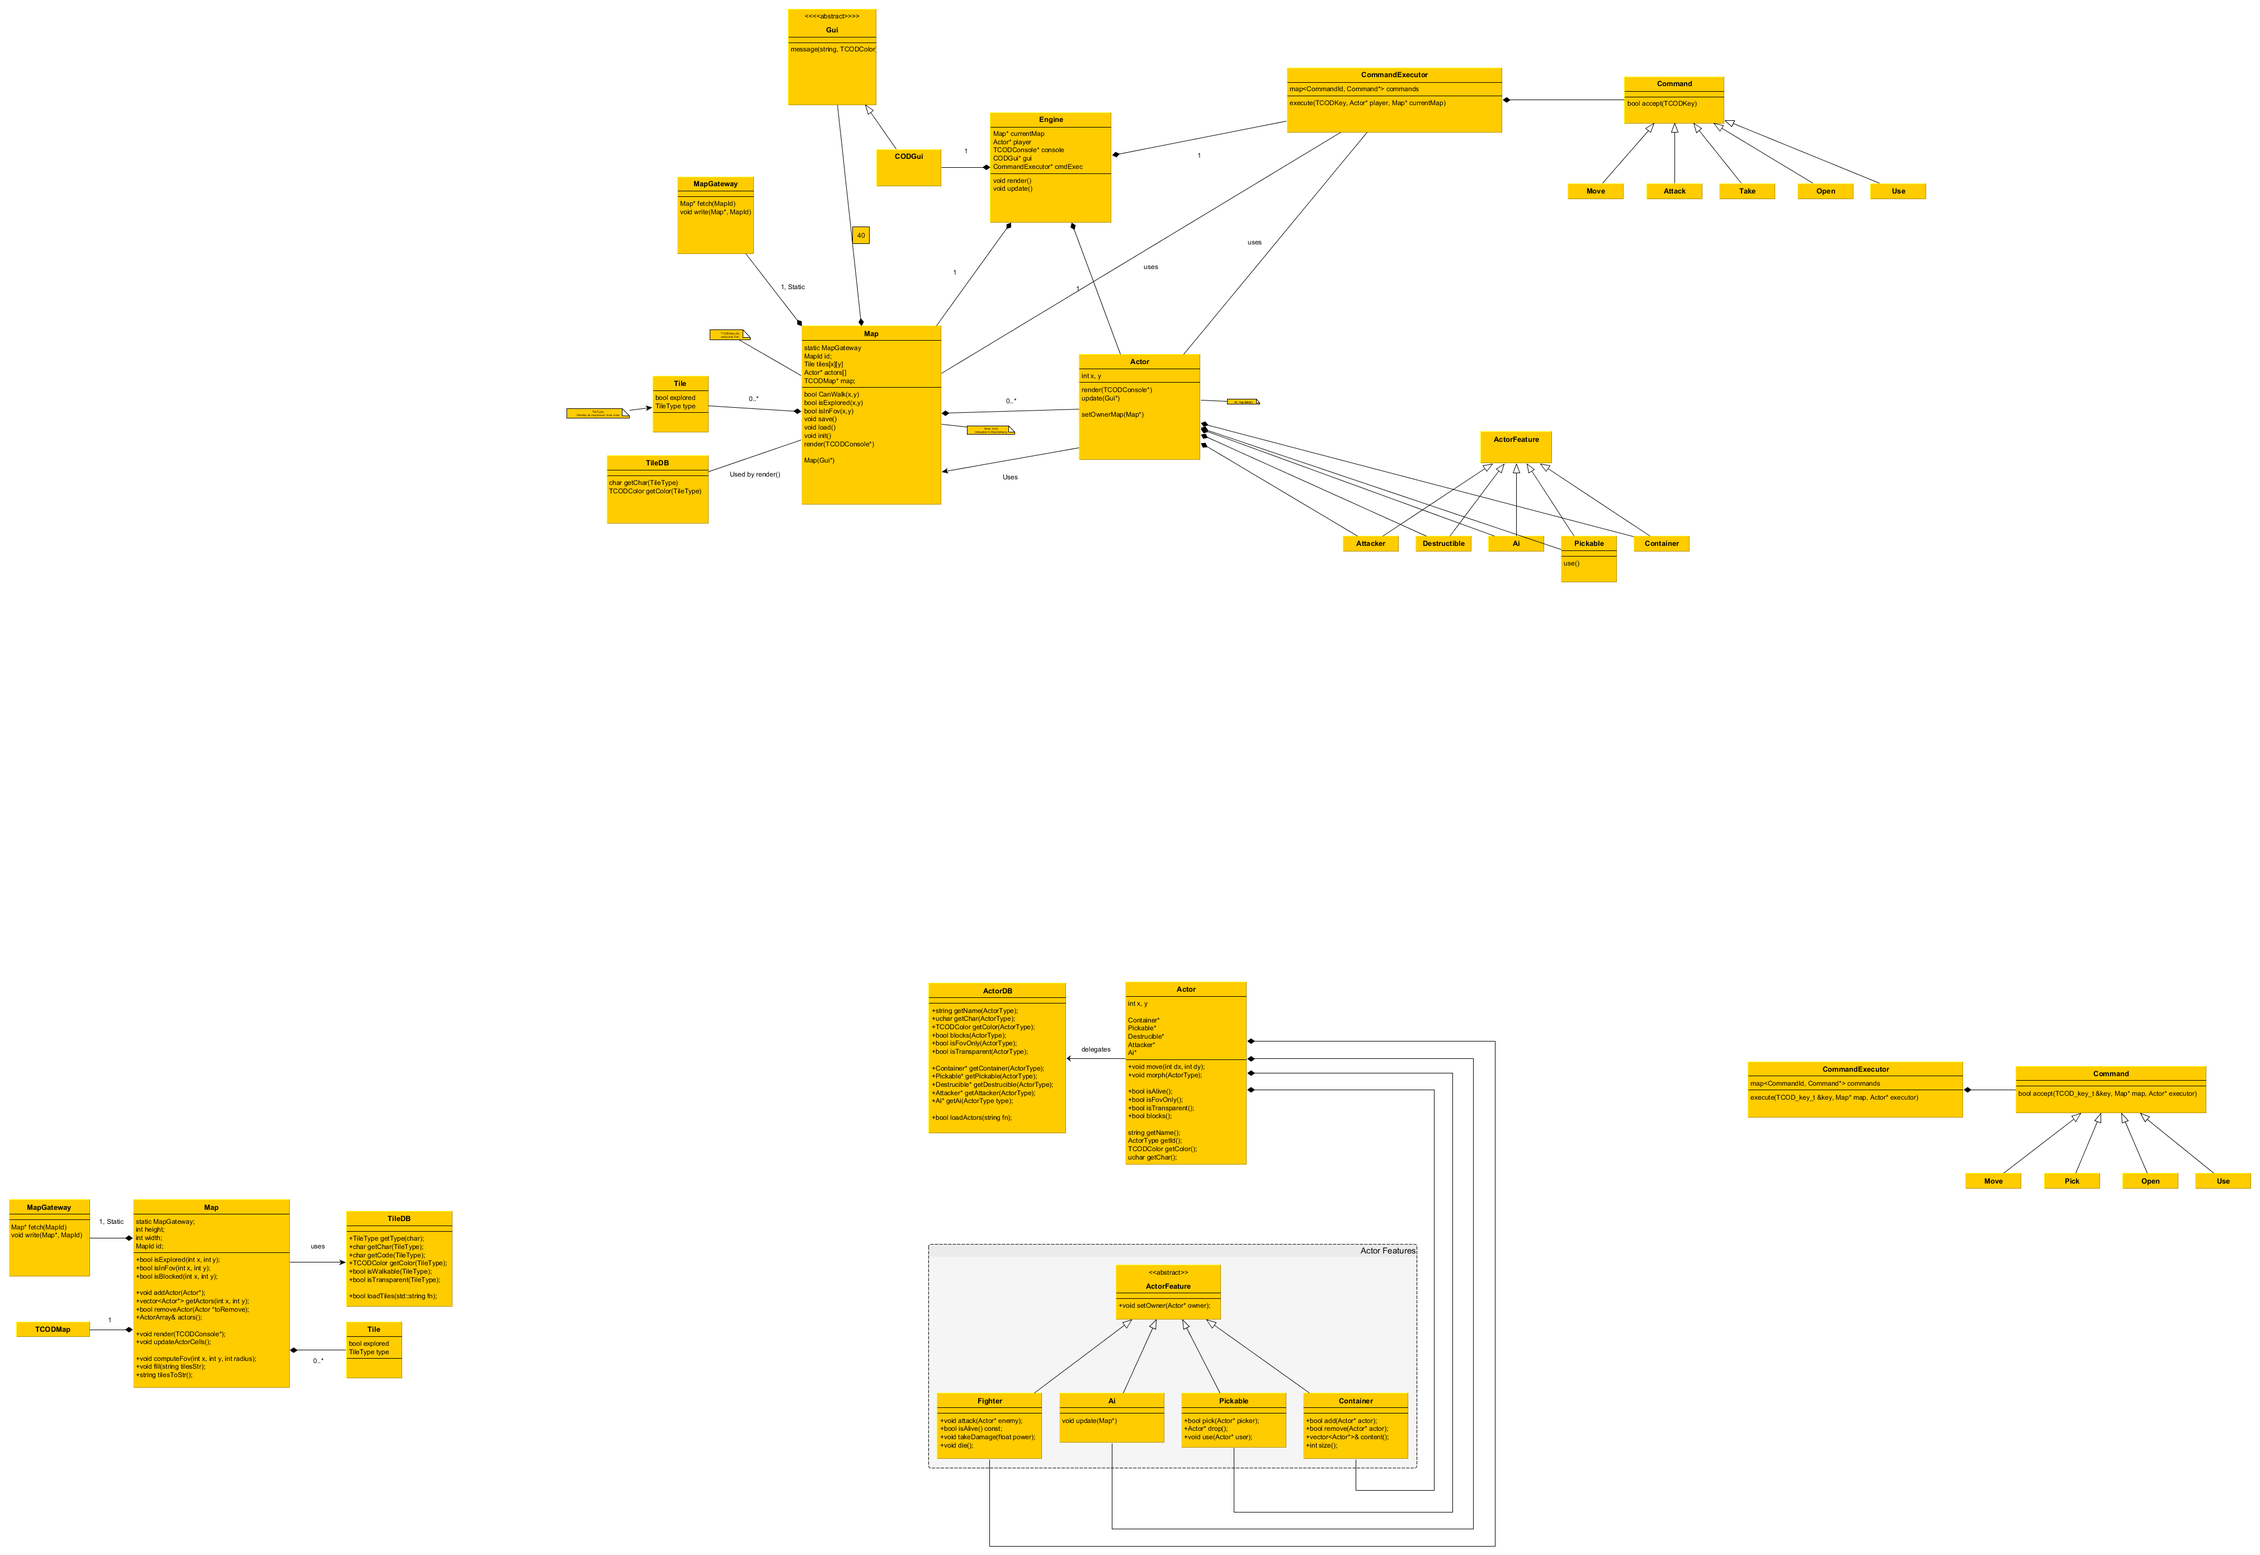
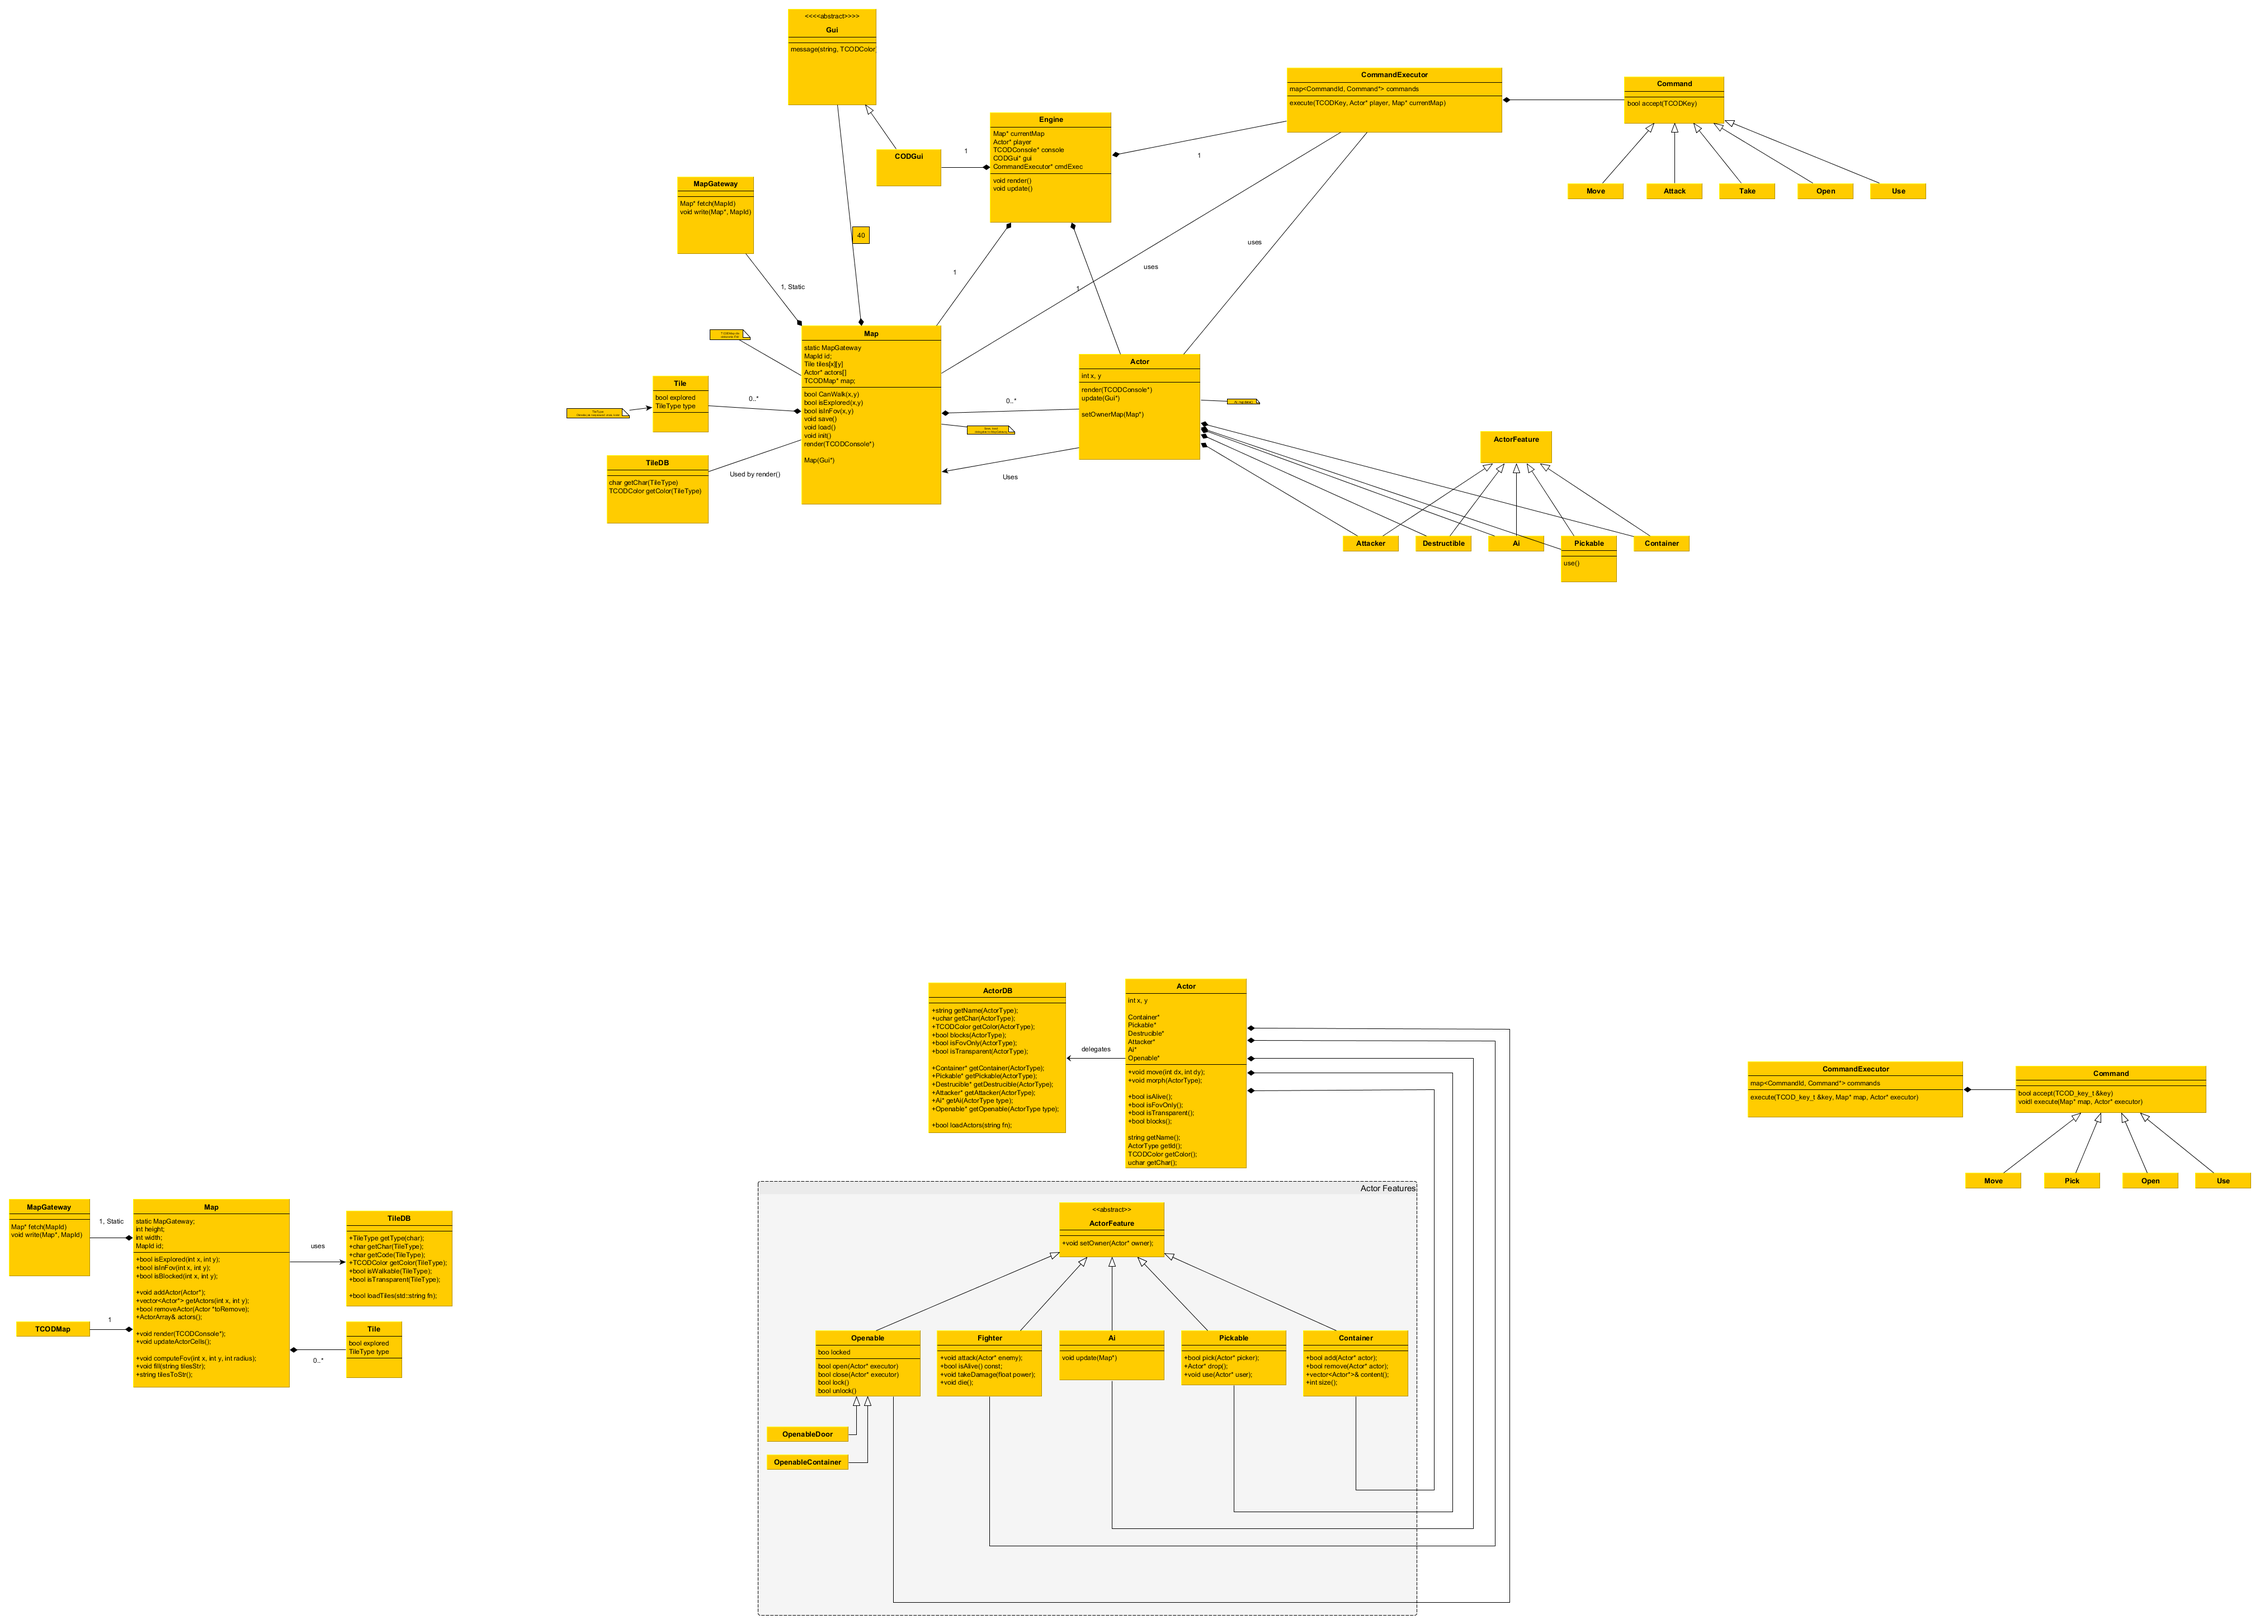
close command update, reffers to #16

diff --git a/src/Commands/CmdClose.cpp b/src/Commands/CmdClose.cpp
@@ -19,14 +19,10 @@ void CmdClose::execute(Map *map, Actor *executor)
   _dSelector.select(dx, dy);
 
   Actor* target = map->getFirstActor(x+dx, y+dy);
-  if ( target )
+  if ( target && target->afOpenable() )
   {
-    //TODO: more generic closable, lock support
-
-    //close doors
-    if ( target->getId() == ActorType::DoorOpen)
+    if ( target->afOpenable()->close(executor) )
     {
-      target->morph(ActorType::DoorClosed);
       map->updateActorCell(target);
     }
   }
